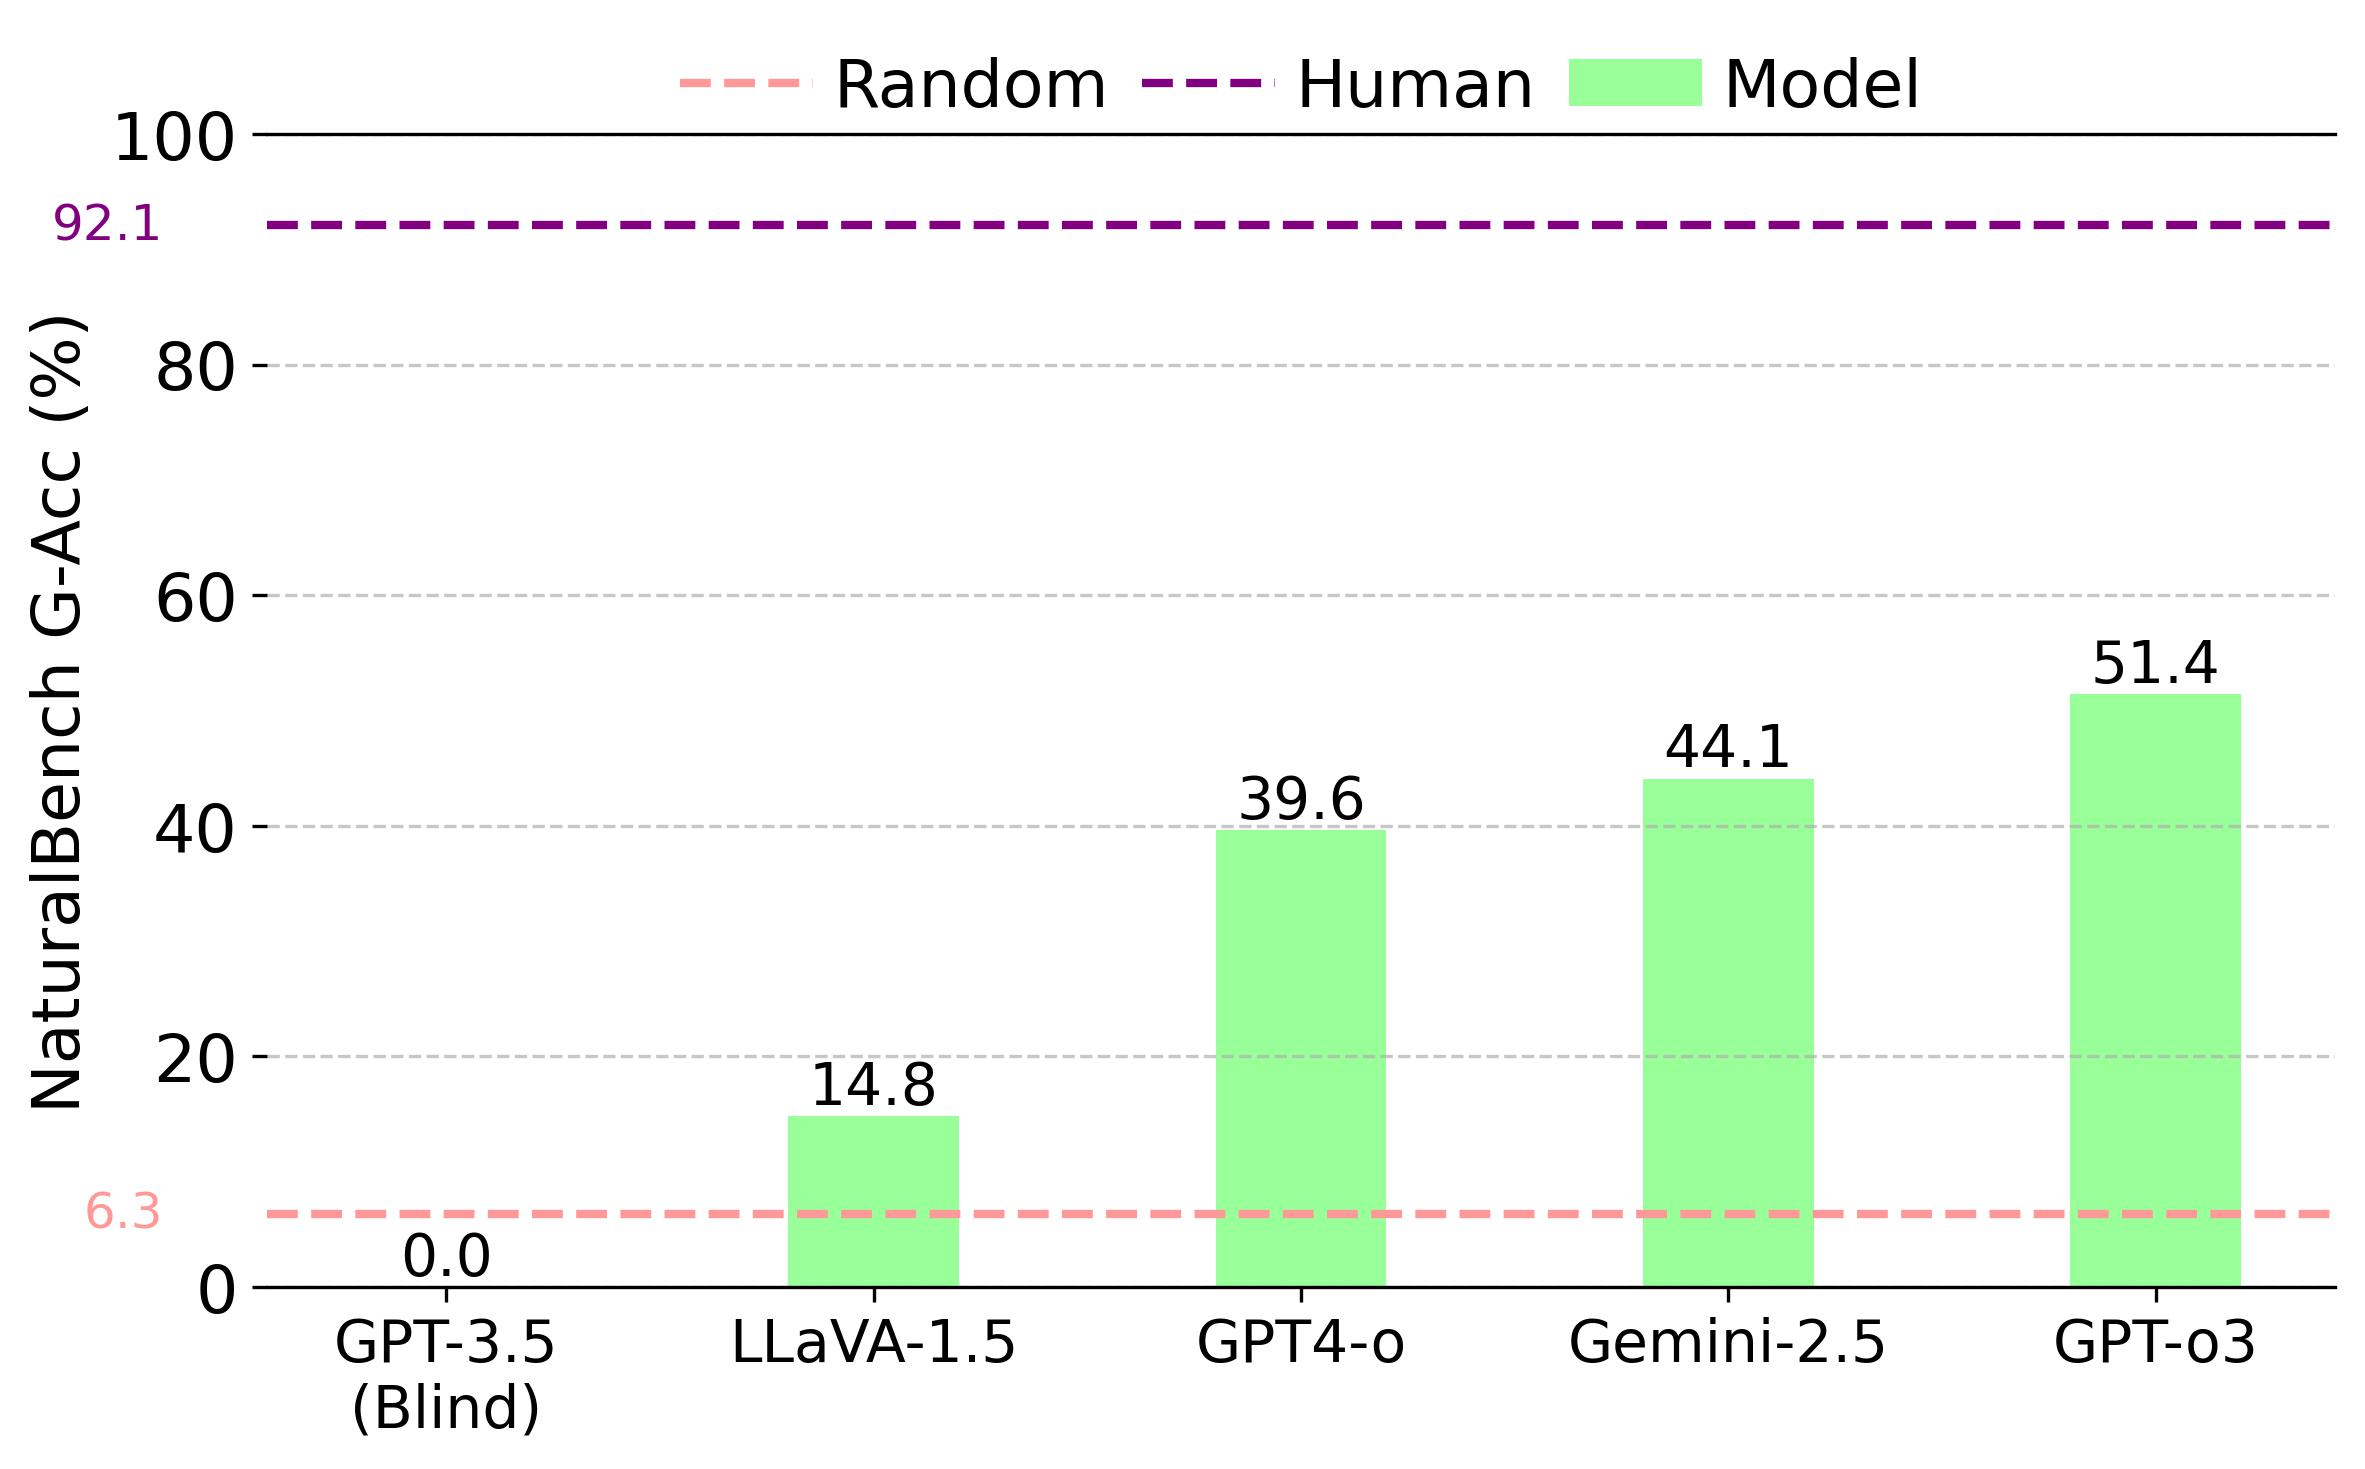
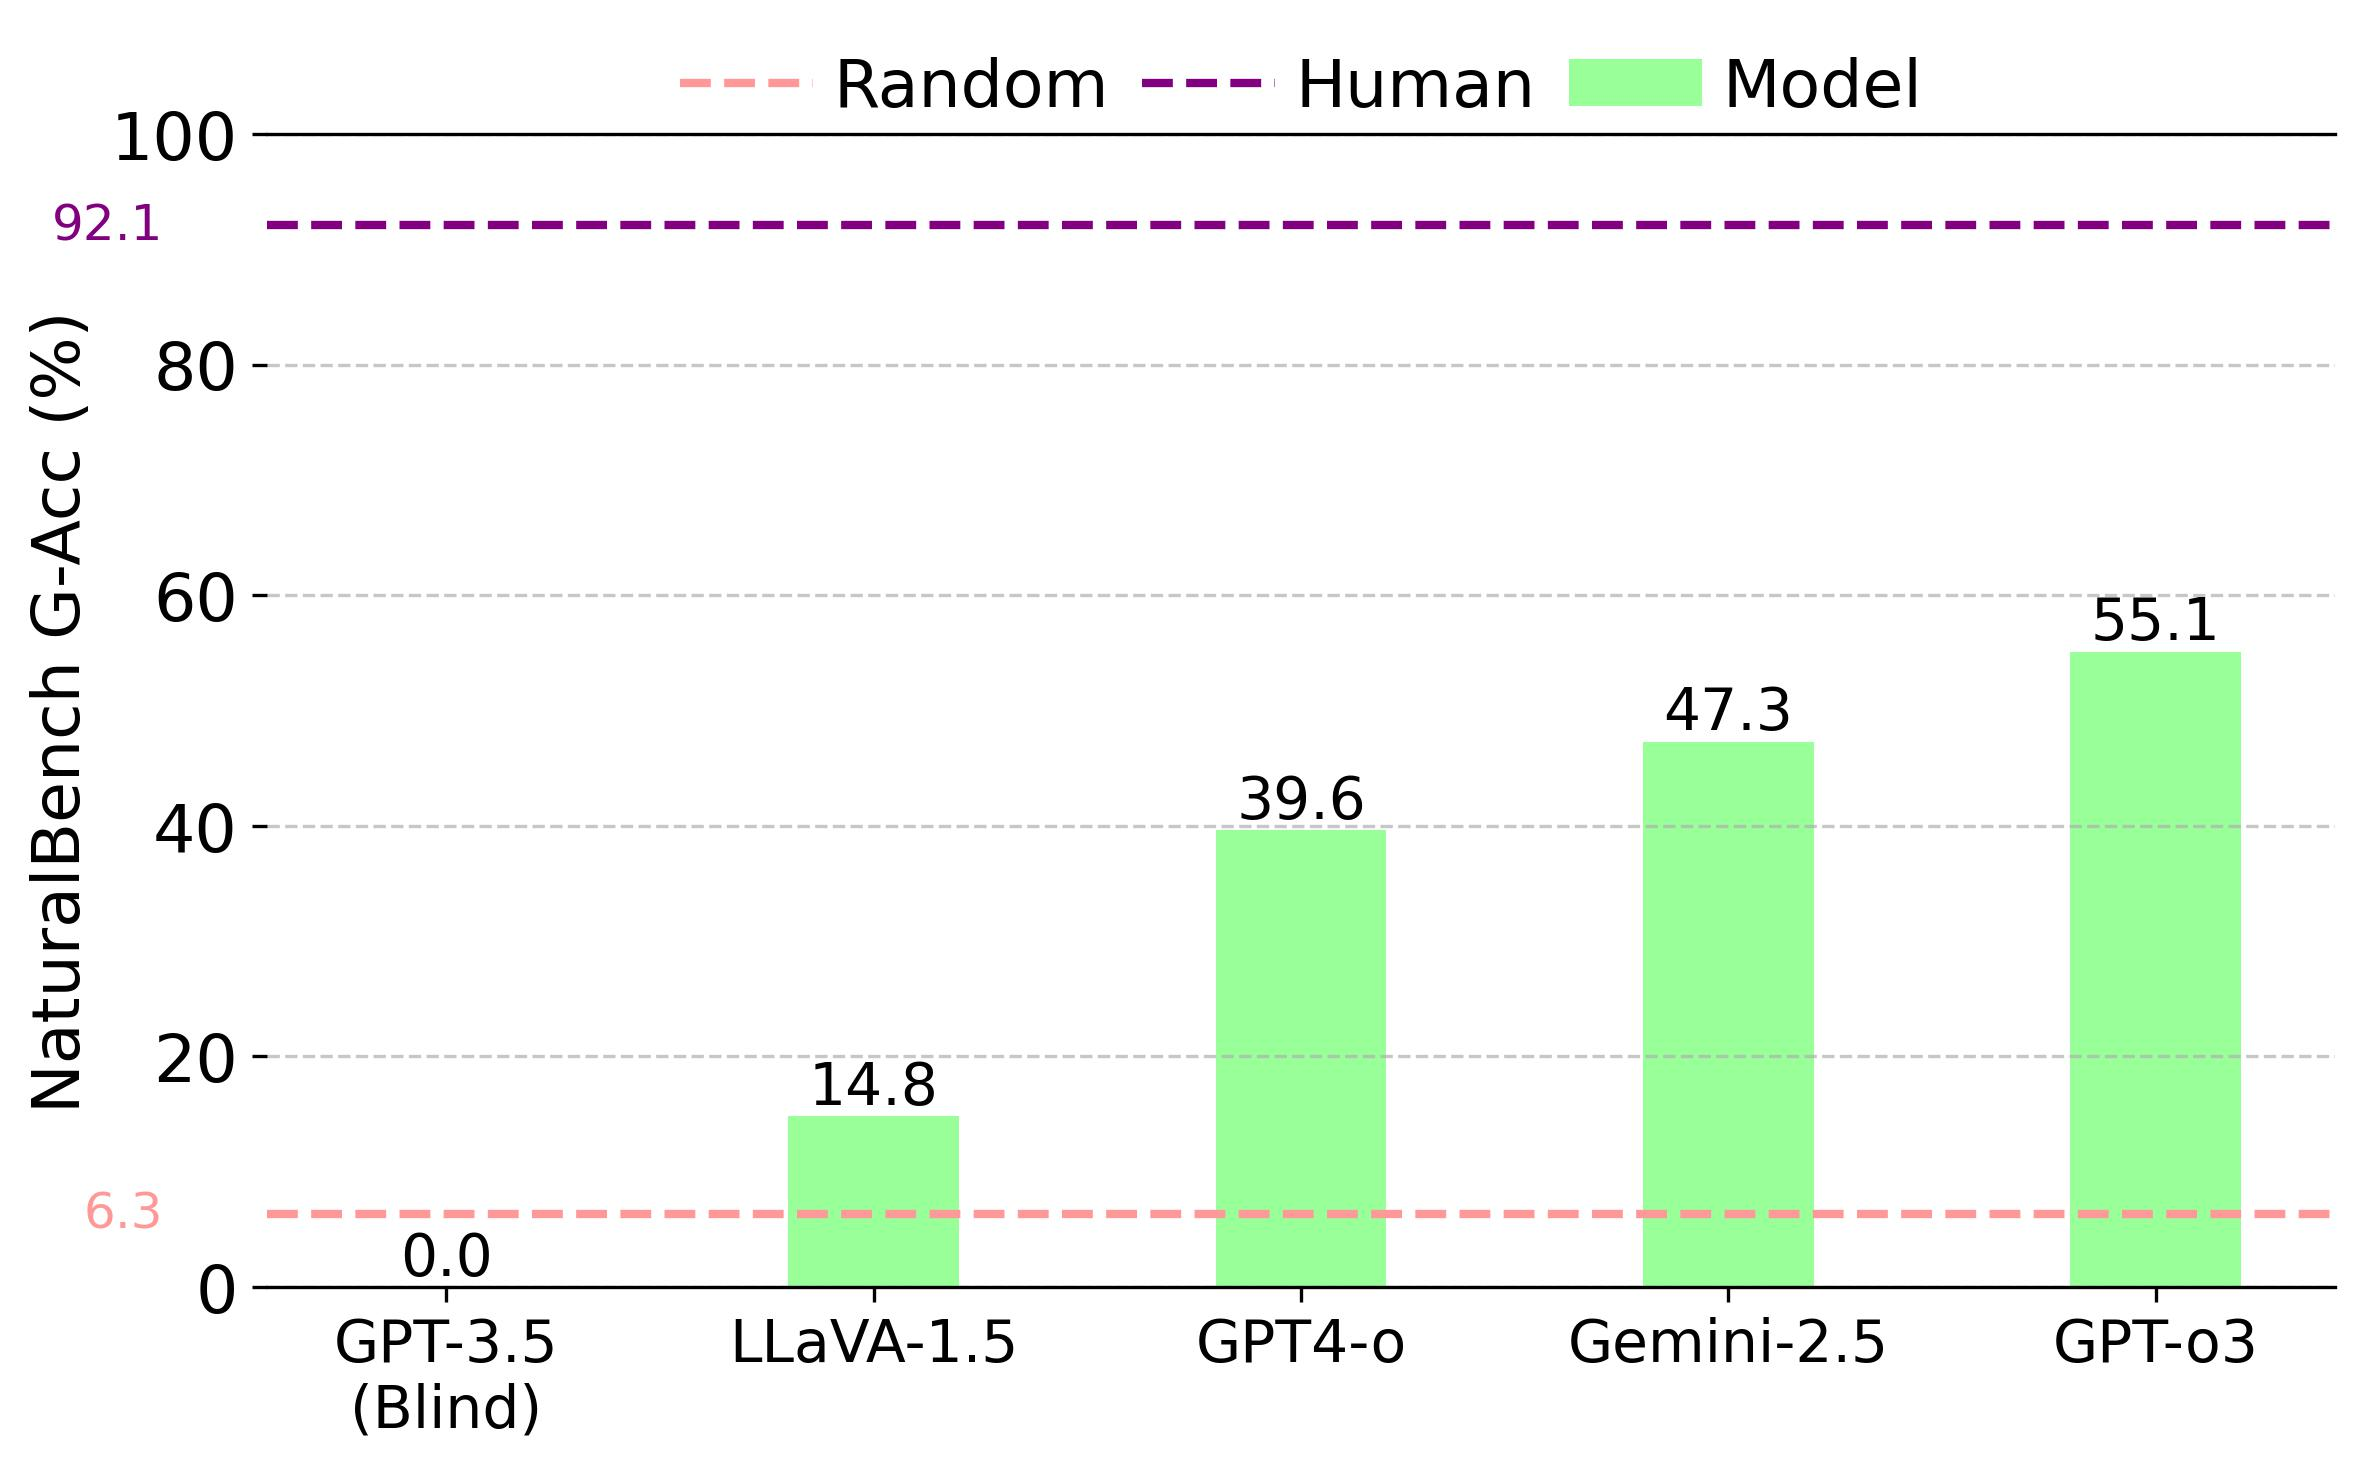
[add] camerabench

Changed region(s): [[0.6791, 0.4595, 0.7717, 0.5514], [0.8643, 0.3982, 0.9569, 0.4901]]

diff --git a/papers/naturalbench/index.html b/papers/naturalbench/index.html
@@ -352,7 +352,7 @@
           <div class="content has-text-justified">
   
             <p style="text-align: justify; font-size: 16px; line-height: 1.5; margin-top: 10px; color: #333;">
-              As of April 2025, GPT-o3 (with visual reasoning) achieves the highest performance on NaturalBench with a G-Acc of 51%.
+              As of April 2025, GPT-o3 (with visual reasoning) achieves the highest performance on NaturalBench with a G-Acc of 55%!
             </p>
             <div style="display: flex; justify-content: center; align-items: center;">
               <img src="images/NaturalBench_bar.jpeg" alt="Image illustrating GPT-o3 Results">
